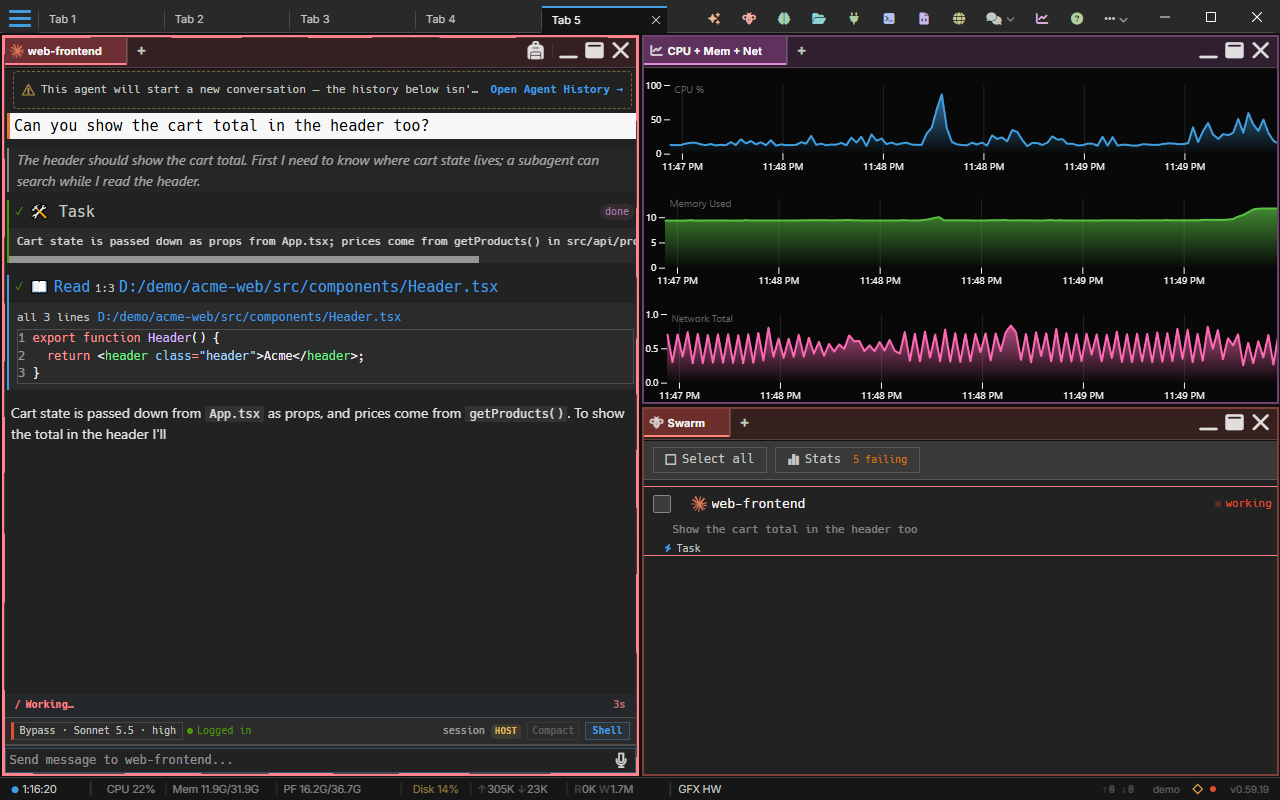
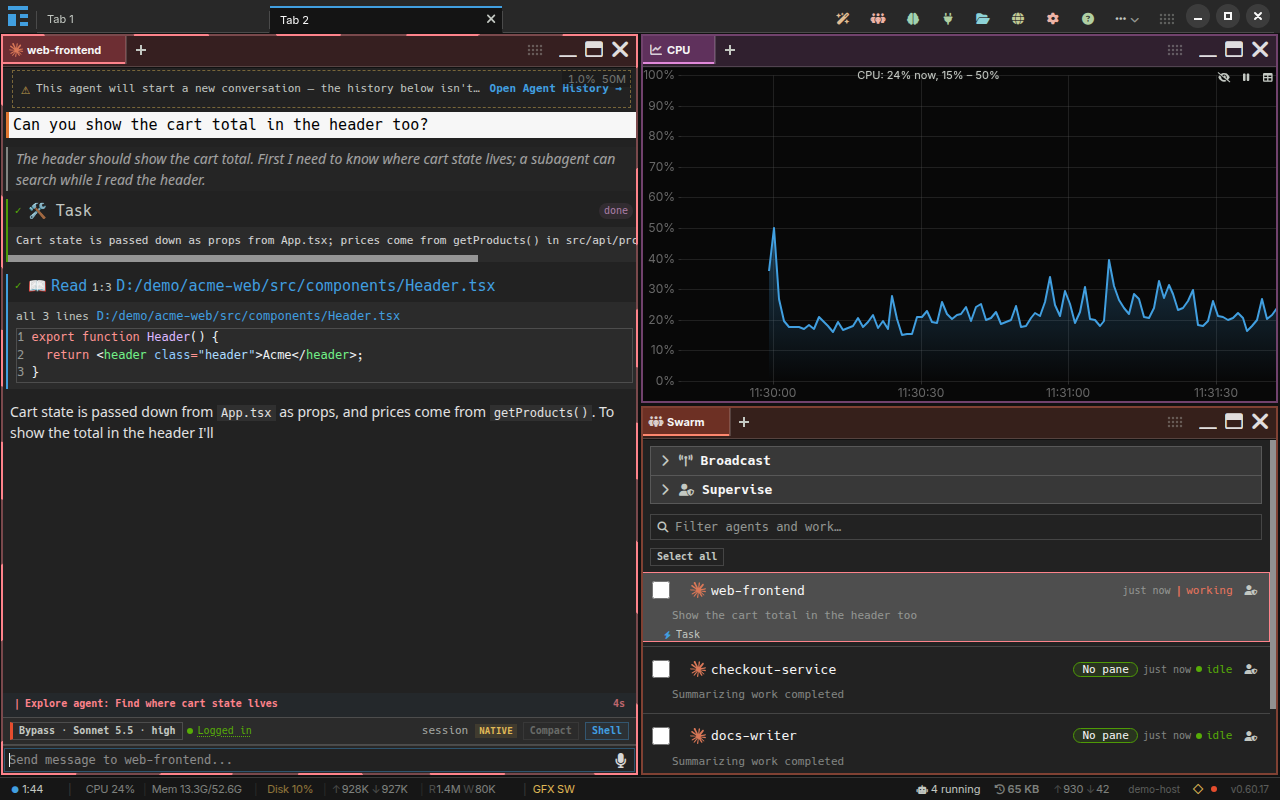
Agent1@narko: docs: retake the five screenshots that show the old three-bar glyph (0.60.17)
Agent: agent1@narko

Changed region(s): [[0.0, 0.0, 1.0, 0.9375], [0.0, 0.8438, 0.6562, 1.0], [0.7188, 0.9688, 1.0, 1.0]]

diff --git a/.changesets/1793950349-retake-five-screenshots-from-the-0-60-17-release-so-the-titl-ad48.md b/.changesets/1793950349-retake-five-screenshots-from-the-0-60-17-release-so-the-titl-ad48.md
@@ -1,0 +1,5 @@
+---
+type: patch
+---
+
+Retake five screenshots from the 0.60.17 release so the title bar shows the AgentMux logo menu button, not the old three-bar glyph
